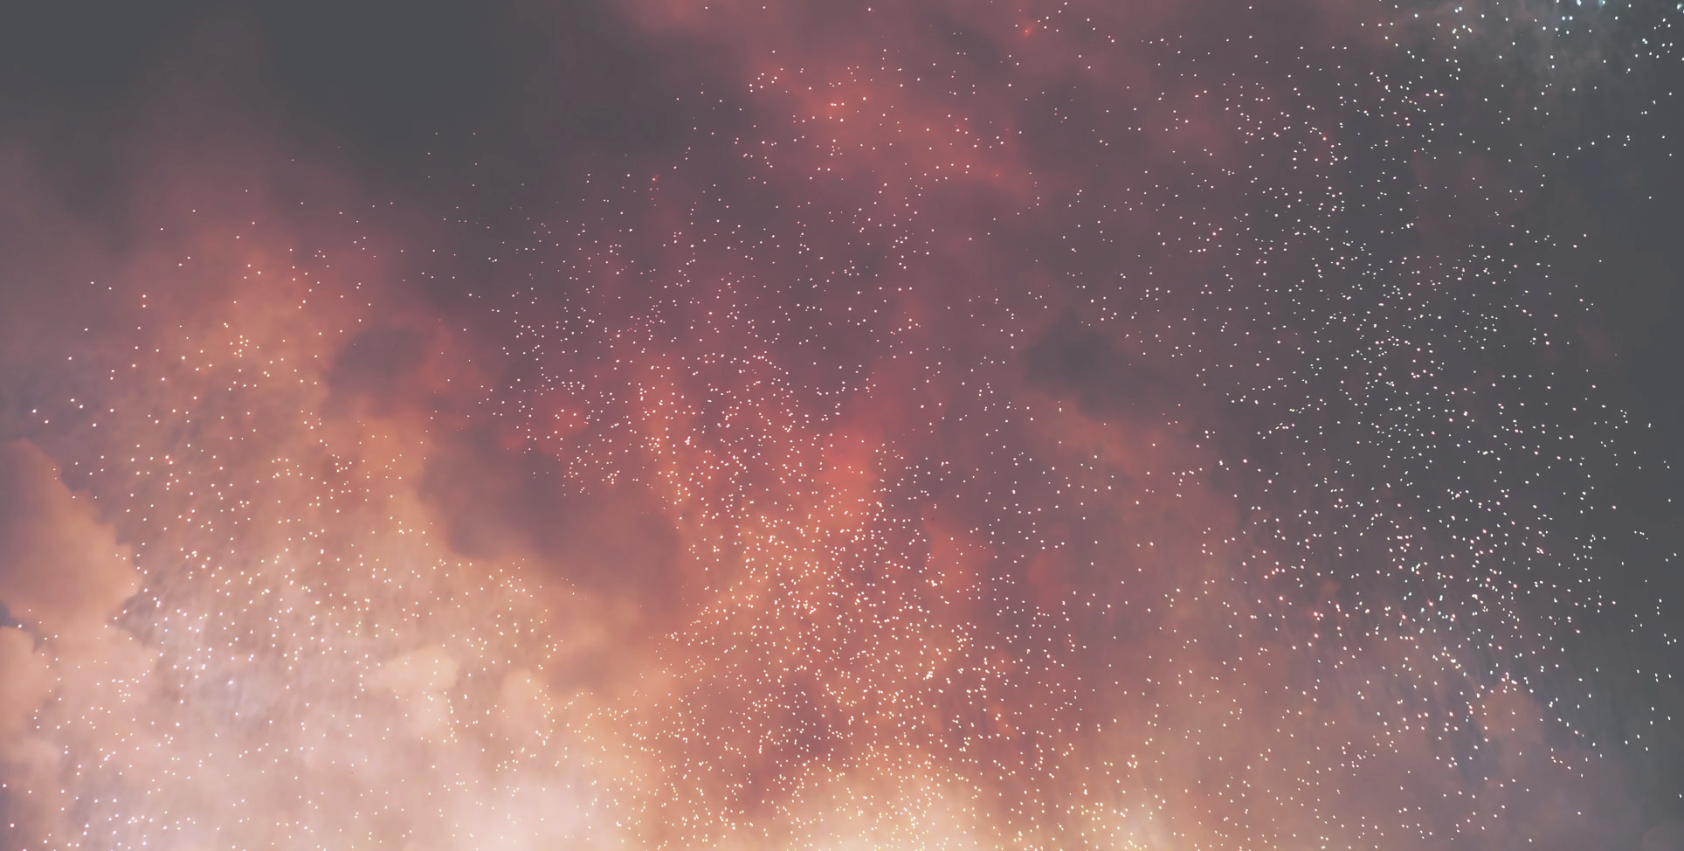
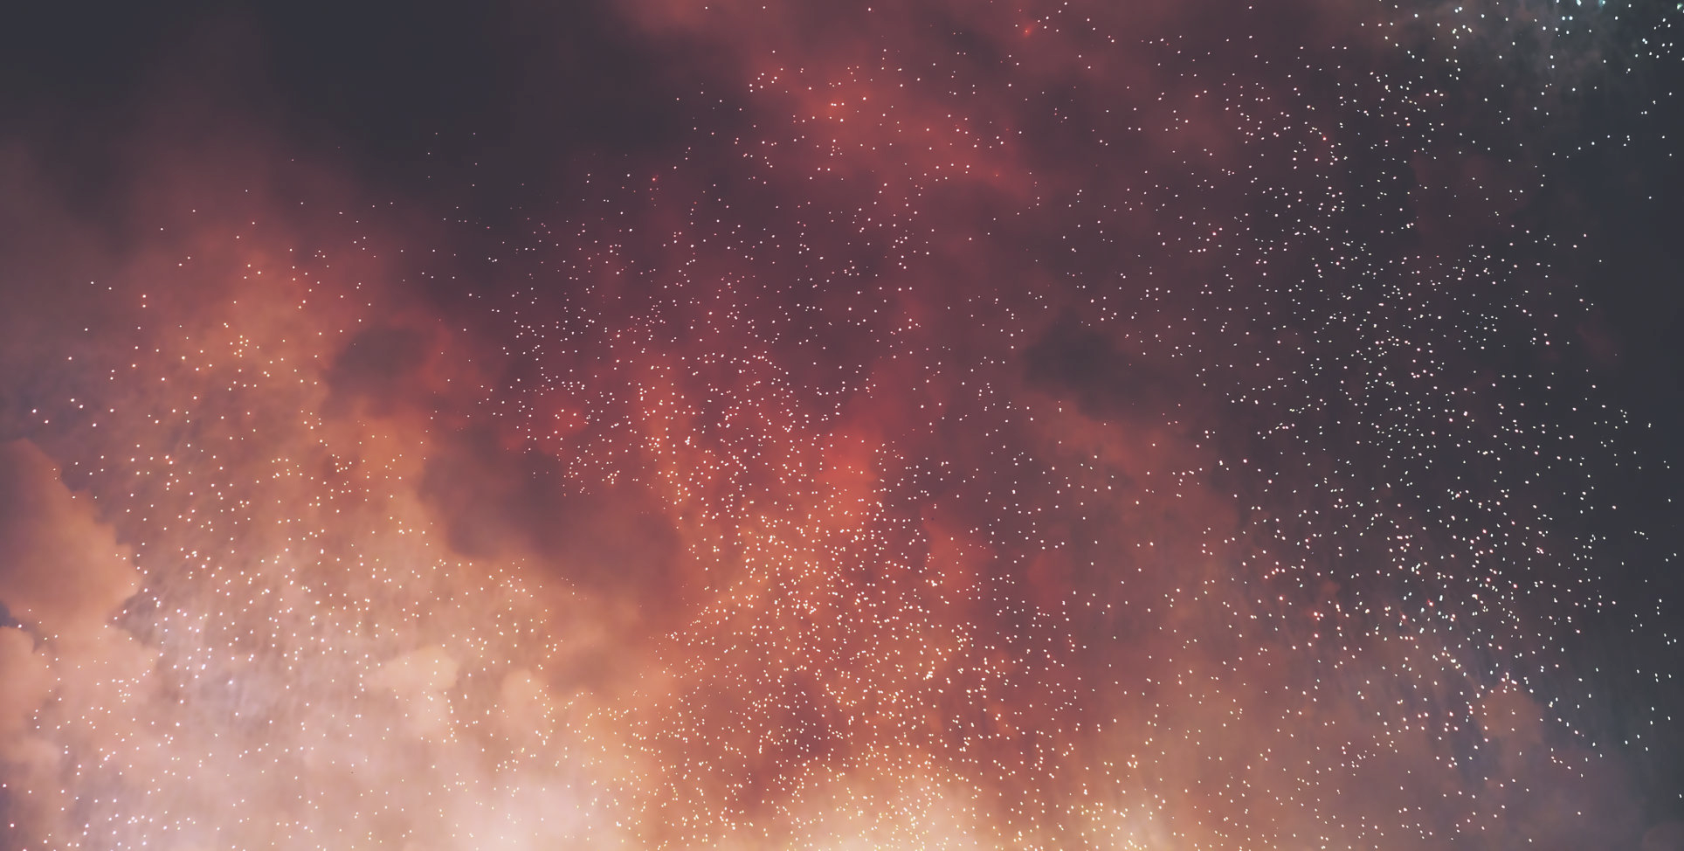
added reduced apidocs.jpg

diff --git a/_pages/home.md b/_pages/home.md
@@ -22,7 +22,7 @@ feature_row_benefits:
       Users can focus on higher layer protocols and Controller logic while the IOS-XR infrastructure layer handles conflict resolution, transactional notifications, scalability and data plane abstraction.
 
 feature_row_docs:
-  - image_path: apidocs.png
+  - image_path: apidocs.jpg
     title: Documentation auto-generated from Code 
     excerpt: >-
        Doxygen Based API Documentation auto-generated from the protobuf IDLs. Documentation always remains up to date with the API!
